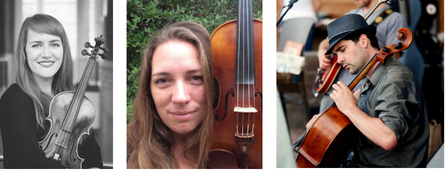
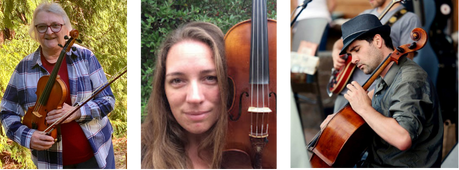
updated youth orchestra times and teacher image

diff --git a/assets/js/classes.js b/assets/js/classes.js
@@ -15,7 +15,7 @@ document.addEventListener('DOMContentLoaded', () => {
     {loc:"Port Angeles", teacher:"Christine Faught", name:"Suzuki Sprouts (CONTINUING)", age:"3–7", time:"Friday 3:30–4:05", link:"/classes/sprouts/#suzuki-sprouts"},
     {loc:"Port Angeles", teacher:"Jesse Ahmann", name:"Beginner Strings", age:"7+", time:"Mon & Wed 3:30–4:15", link:"/classes/6-plus-classes/"},
     {loc:"Port Angeles", teacher:"Jesse Ahmann", name:"Intermediate Strings", age:"7+", time:"Mon & Wed 4:30–5:15", link:"/classes/6-plus-classes/"},
-    {loc:"Port Angeles", teacher:"Jesse Ahmann", name:"Youth Orchestra", age:"8–13", time:"Fridays 3:30–5:45", link:"/classes/youth-orchestra/"},
+    {loc:"Port Angeles", teacher:"Jesse Ahmann", name:"Youth Orchestra", age:"8–13", time:"Fridays 3:30–4:45", link:"/classes/youth-orchestra/"},
     {loc:"Port Angeles", teacher:"Christine Faught", name:"Adult Violin Lab", age:"13+", time:"Fridays 1:30–2:20", link:"/classes/adult-strings/"}
   ];
 

diff --git a/layouts/classes/youth-orchestra.html b/layouts/classes/youth-orchestra.html
@@ -17,7 +17,7 @@
     <section class="mb5">
 	    <div class="tc">Choose one:</div>
 	    <h3>Sequim: Monday 4:15-5:30<br />Taught by Christine Faught</h3>
-	    <h3>Port Angeles: Friday 3:30-5:45<br />Taught by Jesse Ahmann</h3>
+	    <h3>Port Angeles: Friday 3:30-4:45<br />Taught by Jesse Ahmann</h3>
       <p>Youth Orchestra is for young musicians who have mastered the basics of their
       instrument and are ready to play as an ensemble.</p>
       <p>We expect students to have mastered basic posture, bow and instrument hold, and
